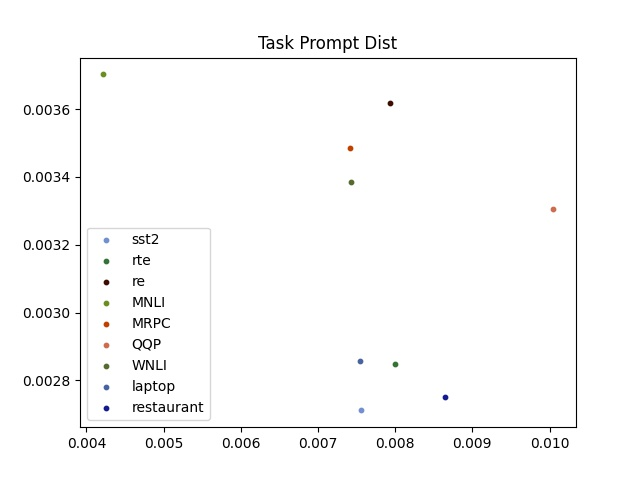
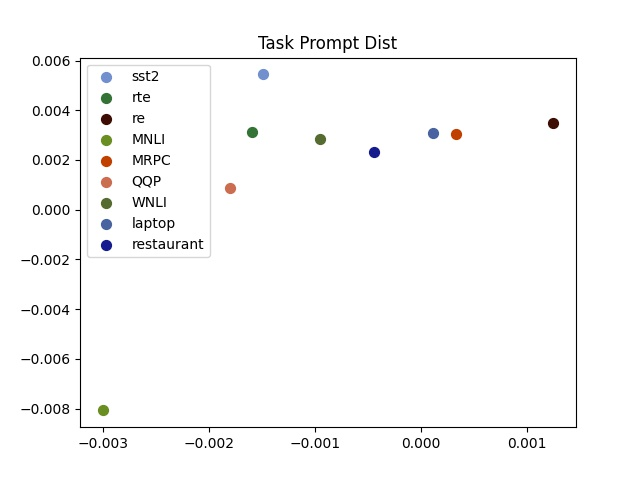
update

diff --git a/draw_cuda_taskprompt.py b/draw_cuda_taskprompt.py
@@ -409,7 +409,7 @@ for task_id, task_name in task_map.items():
 
     print(compressed_prompt_emb[task_id])
 
-    plt.scatter(compressed_prompt_emb[task_id][0], compressed_prompt_emb[task_id][1], color=color_map[task_id], label=task_map[task_id], s=10)
+    plt.scatter(compressed_prompt_emb[task_id][0], compressed_prompt_emb[task_id][1], color=color_map[task_id], label=task_map[task_id], s=50)
 
 #plt.scatter(task_prompt_emb_x_list, task_prompt_emb_y_list, color=color_map[task_id], label=task_prompt_label_list)
 
